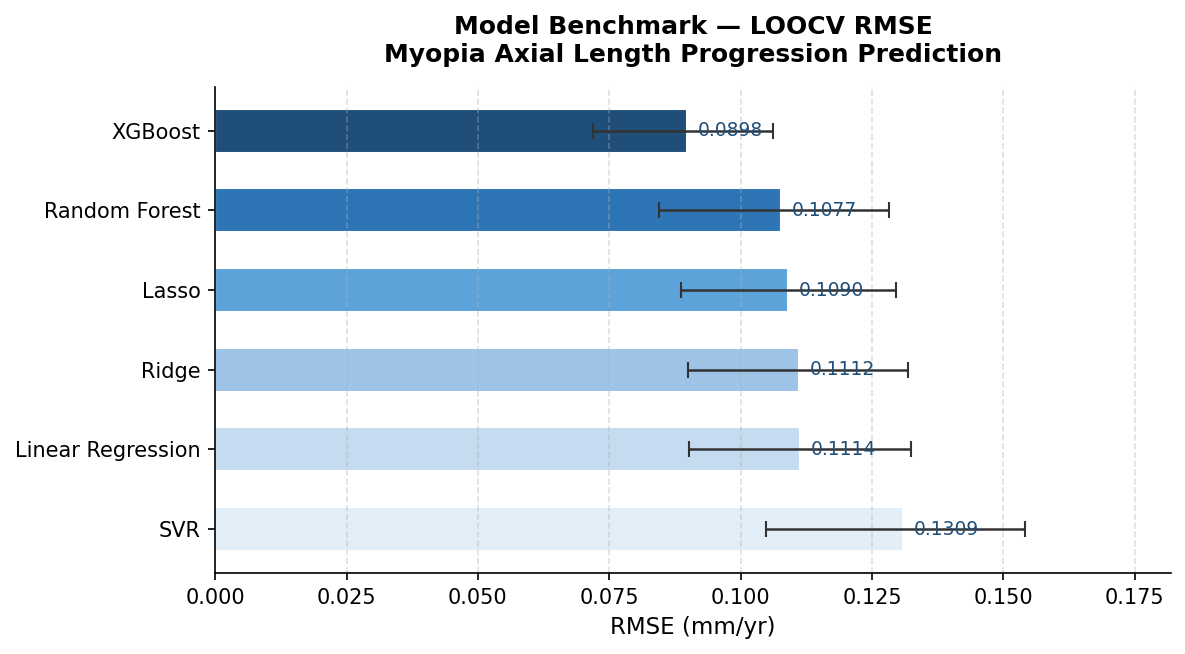
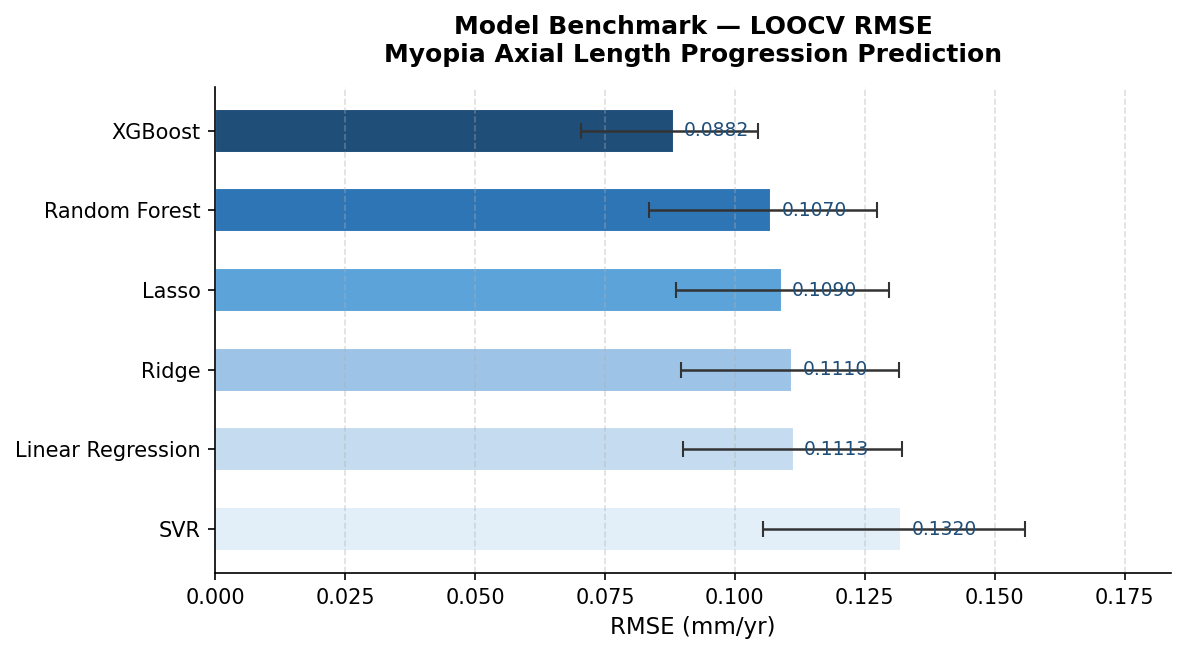
feat: AXL growth trajectory panel with visit-based age axis + normative bands + 1yr projection

diff --git a/app.py b/app.py
@@ -231,10 +231,58 @@ st.divider()
 atro_map = {"None (0%)": 0.0, "0.01%": 0.01, "0.02%": 0.02,
             "0.05%": 0.05, "0.125%": 0.125}
 
-# 年齡-眼軸常模
-AGE_NORM = {6:22.5,7:22.8,8:23.0,9:23.2,10:23.4,11:23.6,12:23.8,
-            13:24.0,14:24.1,15:24.2,16:24.3,17:24.4,18:24.5,19:24.5,20:24.5}
-norm_axl = AGE_NORM.get(age, 24.0)
+# ── 東亞兒童眼軸常模（He et al. Br J Ophthalmol 2023, n=14,127）────
+# 50th percentile（中位數），分性別，來源：上海+廣州大型研究
+EA_NORM_MALE = {
+    4:22.39,5:22.69,6:22.97,7:23.25,8:23.51,9:23.76,10:23.99,
+    11:24.22,12:24.43,13:24.62,14:24.81,15:24.98,16:25.13,
+    17:25.28,18:25.41,19:25.50,20:25.55,
+}
+EA_NORM_FEMALE = {
+    4:21.78,5:22.10,6:22.41,7:22.70,8:22.98,9:23.25,10:23.51,
+    11:23.75,12:23.97,13:24.19,14:24.39,15:24.57,16:24.75,
+    17:24.91,18:25.05,19:25.12,20:25.15,
+}
+# P10 / P50 / P90 對照表（用於百分位計算 panel）
+EA_PCTILE = {
+    7:  dict(p10_m=22.43,p50_m=23.25,p90_m=24.08, p10_f=21.89,p50_f=22.70,p90_f=23.51),
+    8:  dict(p10_m=22.67,p50_m=23.51,p90_m=24.35, p10_f=22.08,p50_f=22.98,p90_f=23.88),
+    9:  dict(p10_m=22.90,p50_m=23.76,p90_m=24.62, p10_f=22.28,p50_f=23.25,p90_f=24.22),
+    10: dict(p10_m=23.11,p50_m=23.99,p90_m=24.87, p10_f=22.47,p50_f=23.51,p90_f=24.55),
+    11: dict(p10_m=23.30,p50_m=24.22,p90_m=25.14, p10_f=22.65,p50_f=23.75,p90_f=24.85),
+    12: dict(p10_m=23.49,p50_m=24.43,p90_m=25.37, p10_f=22.82,p50_f=23.97,p90_f=25.12),
+    13: dict(p10_m=23.66,p50_m=24.62,p90_m=25.58, p10_f=22.98,p50_f=24.19,p90_f=25.40),
+    14: dict(p10_m=23.82,p50_m=24.81,p90_m=25.80, p10_f=23.13,p50_f=24.39,p90_f=25.65),
+    15: dict(p10_m=23.97,p50_m=24.98,p90_m=25.99, p10_f=23.27,p50_f=24.57,p90_f=25.87),
+    16: dict(p10_m=24.10,p50_m=25.13,p90_m=26.16, p10_f=23.40,p50_f=24.75,p90_f=26.10),
+    17: dict(p10_m=24.22,p50_m=25.28,p90_m=26.34, p10_f=23.52,p50_f=24.91,p90_f=26.30),
+    18: dict(p10_m=24.33,p50_m=25.41,p90_m=26.49, p10_f=23.63,p50_f=25.05,p90_f=26.47),
+}
+
+def get_ea_norm(age_val: int, sex_str: str) -> float:
+    if sex_str == "Male":
+        return EA_NORM_MALE.get(age_val, EA_NORM_MALE.get(18, 25.41))
+    return EA_NORM_FEMALE.get(age_val, EA_NORM_FEMALE.get(18, 25.05))
+
+def axl_percentile_approx(axl: float, age_val: int, sex_str: str) -> float:
+    """線性插值估計 AXL 在同齡同性別東亞兒童的百分位（0–100）。"""
+    pct = EA_PCTILE.get(age_val)
+    if pct is None:
+        return 50.0
+    if sex_str == "Male":
+        p10, p50, p90 = pct["p10_m"], pct["p50_m"], pct["p90_m"]
+    else:
+        p10, p50, p90 = pct["p10_f"], pct["p50_f"], pct["p90_f"]
+    if axl <= p10:
+        return float(np.interp(axl, [p10 - 2.0, p10], [2, 10]))
+    elif axl <= p50:
+        return float(np.interp(axl, [p10, p50], [10, 50]))
+    elif axl <= p90:
+        return float(np.interp(axl, [p50, p90], [50, 90]))
+    else:
+        return float(np.interp(axl, [p90, p90 + 2.0], [90, 98]))
+
+norm_axl = get_ea_norm(age, sex)
 axl_dev  = axl_base - norm_axl
 
 input_vals = {
@@ -333,6 +381,168 @@ if MODEL_OK and predict_btn:
         plt.tight_layout()
         st.pyplot(fig, use_container_width=True)
         plt.close()
+
+    # ── 東亞常模對比 Panel ────────────────────────────────────
+    st.divider()
+    st.markdown("### 📏 AXL vs. East Asian Norms")
+    st.caption(
+        "Compares this patient's axial length to same-age, same-sex East Asian children "
+        "(He et al., *Br J Ophthalmol* 2023 · n = 14,127 · Shanghai + Guangzhou)"
+    )
+
+    pctile = axl_percentile_approx(float(axl_base), age, sex)
+    pct_data = EA_PCTILE.get(age)
+
+    col_n1, col_n2 = st.columns([1, 1.6])
+
+    with col_n1:
+        # 百分位指示
+        if pctile >= 90:
+            pctile_label, pctile_color, pctile_msg = (
+                "⚠️ Very Long (≥ P90)",
+                "#C00000",
+                "AXL is in the top 10% for this age/sex group — significantly longer than peers."
+            )
+        elif pctile >= 75:
+            pctile_label, pctile_color, pctile_msg = (
+                "🔴 Long (P75–P90)",
+                "#ED7D31",
+                "AXL is above average — longer than ~75–90% of same-age peers."
+            )
+        elif pctile >= 25:
+            pctile_label, pctile_color, pctile_msg = (
+                "🟢 Average (P25–P75)",
+                "#375623",
+                "AXL is within the typical range for this age and sex."
+            )
+        else:
+            pctile_label, pctile_color, pctile_msg = (
+                "🔵 Short (< P25)",
+                "#2E75B6",
+                "AXL is shorter than ~75% of same-age peers — low axial elongation risk."
+            )
+
+        st.markdown(
+            f"<div style='background:{pctile_color}22; border-left:5px solid {pctile_color}; "
+            f"padding:14px 18px; border-radius:8px; margin-bottom:10px;'>"
+            f"<div style='font-size:0.82rem; color:#555; font-weight:600;'>Estimated Percentile</div>"
+            f"<div style='font-size:2.2rem; font-weight:800; color:{pctile_color};'>P{pctile:.0f}</div>"
+            f"<div style='font-size:0.9rem; font-weight:600; color:{pctile_color};'>{pctile_label}</div>"
+            f"</div>",
+            unsafe_allow_html=True
+        )
+        st.markdown(f"> {pctile_msg}")
+        st.markdown(
+            f"**Patient AXL:** {axl_base:.2f} mm  \n"
+            f"**East Asian P50 (age {age}, {sex}):** {norm_axl:.2f} mm  \n"
+            f"**Deviation:** {axl_dev:+.2f} mm"
+        )
+        st.caption("Source: He X et al. *Br J Ophthalmol* 2023;107:167–175")
+
+    with col_n2:
+        # 圖：常模帶（P10/P50/P90） + 病人實際量測軌跡
+        import matplotlib
+        matplotlib.use("Agg")
+        import matplotlib.pyplot as plt
+
+        # ── 常模曲線資料（橫跨 7–18 歲）
+        ages_plot = list(range(7, 19))
+        key_m = "p10_m" if sex == "Male" else "p10_f"
+        key_50 = "p50_m" if sex == "Male" else "p50_f"
+        key_90 = "p90_m" if sex == "Male" else "p90_f"
+        p10_vals = [EA_PCTILE[a][key_m]  for a in ages_plot if a in EA_PCTILE]
+        p50_vals = [EA_PCTILE[a][key_50] for a in ages_plot if a in EA_PCTILE]
+        p90_vals = [EA_PCTILE[a][key_90] for a in ages_plot if a in EA_PCTILE]
+
+        # ── 把 valid_visits（月份, AXL）轉成（實際年齡, AXL）
+        # 規則：Visit 1 = age（歲），每多 1 個月 = +1/12 歲
+        pt_ages = [age + mo / 12.0 for mo, _ in valid_visits]
+        pt_axls = [axl for _, axl in valid_visits]
+
+        # 若無 visit 就只畫基線單點（fallback）
+        if len(pt_ages) == 0:
+            pt_ages = [float(age)]
+            pt_axls = [float(axl_base)]
+
+        fig_n, ax_n = plt.subplots(figsize=(6, 3.8))
+
+        # 常模帶
+        ax_n.fill_between(ages_plot, p10_vals, p90_vals,
+                          alpha=0.13, color="#2E75B6")
+        ax_n.plot(ages_plot, p50_vals, color="#2E75B6", lw=2.2,
+                  linestyle="--", label="East Asian P50 (median)")
+        ax_n.plot(ages_plot, p10_vals, color="#2E75B6", lw=1,
+                  linestyle=":", alpha=0.55, label="P10 / P90")
+        ax_n.plot(ages_plot, p90_vals, color="#2E75B6", lw=1,
+                  linestyle=":", alpha=0.55)
+
+        # 病人軌跡
+        pt_color = pctile_color
+        if len(pt_ages) >= 2:
+            ax_n.plot(pt_ages, pt_axls, color=pt_color, lw=2.2,
+                      marker="o", markersize=7, zorder=5,
+                      label="This patient (measured)")
+        else:
+            ax_n.scatter(pt_ages, pt_axls, color=pt_color, s=130,
+                         zorder=5, label="This patient (baseline)")
+
+        # 標注每個量測點
+        for i, (pa, paxl) in enumerate(zip(pt_ages, pt_axls)):
+            visit_pctile = axl_percentile_approx(paxl, int(round(pa)), sex)
+            label_str = (
+                f"V{i+1}: {paxl:.2f}mm\n(P{visit_pctile:.0f})"
+            )
+            va = "bottom" if i % 2 == 0 else "top"
+            offset = 0.04 if va == "bottom" else -0.04
+            ax_n.annotate(
+                label_str,
+                xy=(pa, paxl),
+                xytext=(pa + 0.1, paxl + offset),
+                fontsize=7.5, color=pt_color, fontweight="bold",
+                va=va,
+            )
+
+        # 如果有 ≥2 次，畫預測延伸線（用 early_slope 延伸到 +1 年）
+        if slope_ok and len(pt_ages) >= 2:
+            last_age = pt_ages[-1]
+            last_axl = pt_axls[-1]
+            proj_age = last_age + 1.0
+            proj_axl = last_axl + early_slope * 12  # mm/yr
+            ax_n.annotate(
+                "",
+                xy=(proj_age, proj_axl),
+                xytext=(last_age, last_axl),
+                arrowprops=dict(
+                    arrowstyle="-|>", color=pt_color,
+                    lw=1.5, linestyle="dashed"
+                ),
+            )
+            ax_n.text(proj_age + 0.05, proj_axl,
+                      f"Projected\n+1yr: {proj_axl:.2f}mm",
+                      fontsize=7, color=pt_color, alpha=0.8, va="center")
+
+        ax_n.set_xlabel("Age (years)", fontsize=10)
+        ax_n.set_ylabel("Axial Length (mm)", fontsize=10)
+        ax_n.set_title(
+            f"AXL Growth Trajectory vs. East Asian Norms · {sex}",
+            fontsize=9.5, fontweight="bold"
+        )
+        ax_n.legend(fontsize=8, loc="upper left")
+        ax_n.spines[["top", "right"]].set_visible(False)
+        ax_n.grid(axis="y", linestyle="--", alpha=0.3)
+
+        # 自動調整 x 軸讓病人軌跡在中央
+        x_min = max(6.5, min(pt_ages) - 1.0)
+        x_max = min(19.5, max(pt_ages) + 2.0)
+        ax_n.set_xlim(x_min, x_max)
+        plt.tight_layout()
+        st.pyplot(fig_n, use_container_width=True)
+        plt.close()
+
+        st.caption(
+            "Dashed arrow = projected trajectory based on current slope (+1 yr).  "
+            "Blue band = East Asian P10–P90 (He et al. *Br J Ophthalmol* 2023)."
+        )
 
     # ── SHAP Waterfall ────────────────────────────────────────
     st.divider()

diff --git a/02_features.py b/02_features.py
@@ -32,12 +32,36 @@ OUT_FILE = Path(__file__).parent / "features.csv"
 
 
 # ── 年齡-眼軸常模 (文獻值，用於計算偏離量) ─────────────────────
-# 來源：Tideman et al. 2016 / IMI報告中位數 (mm)
-AGE_AXL_NORM = {
-    6: 22.5, 7: 22.8, 8: 23.0, 9: 23.2, 10: 23.4,
-    11: 23.6, 12: 23.8, 13: 24.0, 14: 24.1, 15: 24.2,
-    16: 24.3, 17: 24.4, 18: 24.5, 19: 24.5, 20: 24.5,
+# 來源：He X et al. Br J Ophthalmol 2023;107:167–175
+#       中國兒童 4–18 歲軸長百分位曲線（上海+廣州，n=14,127）
+#       使用 50th percentile（中位數）分性別，以便與東亞兒童做準確比較
+#       sex=1 (Male), sex=0 (Female)
+#
+# 設計說明：因台灣資料有 sex 欄位，這裡改用分性別常模，
+# 若 sex 未知則取男女平均作為 fallback。
+AGE_AXL_NORM_MALE = {
+    4: 22.39, 5: 22.69, 6: 22.97, 7: 23.25, 8: 23.51,
+    9: 23.76, 10: 23.99, 11: 24.22, 12: 24.43, 13: 24.62,
+    14: 24.81, 15: 24.98, 16: 25.13, 17: 25.28, 18: 25.41,
+    19: 25.50, 20: 25.55,  # 18歲後趨於穩定，以18歲值外插
 }
+AGE_AXL_NORM_FEMALE = {
+    4: 21.78, 5: 22.10, 6: 22.41, 7: 22.70, 8: 22.98,
+    9: 23.25, 10: 23.51, 11: 23.75, 12: 23.97, 13: 24.19,
+    14: 24.39, 15: 24.57, 16: 24.75, 17: 24.91, 18: 25.05,
+    19: 25.12, 20: 25.15,  # 18歲後趨於穩定，以18歲值外插
+}
+
+def get_norm_axl(age_int: int, sex: int) -> float:
+    """取東亞兒童眼軸常模（He et al. 2023）。sex=1男, sex=0女, 其他取平均。"""
+    if sex == 1:
+        return AGE_AXL_NORM_MALE.get(age_int, AGE_AXL_NORM_MALE.get(18, 25.41))
+    elif sex == 0:
+        return AGE_AXL_NORM_FEMALE.get(age_int, AGE_AXL_NORM_FEMALE.get(18, 25.05))
+    else:  # 未知性別 → 男女平均
+        m = AGE_AXL_NORM_MALE.get(age_int, 25.41)
+        f = AGE_AXL_NORM_FEMALE.get(age_int, 25.05)
+        return (m + f) / 2
 
 
 def ols_slope(months, axls):
@@ -85,11 +109,12 @@ def compute_features(grp: pd.DataFrame) -> dict:
     axl_std_6m = a_v[mask_6m].std() if mask_6m.sum() >= 2 else np.nan
 
     # ── 年齡偏離量 ────────────────────────────────────────────
-    # 以開始年齡查常模，計算 baseline AXL 偏離
+    # 以開始年齡+性別查東亞常模（He et al. 2023），計算 baseline AXL 偏離
     age = grp["開始年齡"].iloc[0]
     age_int = int(round(age)) if pd.notna(age) else None
-    norm_axl  = AGE_AXL_NORM.get(age_int, np.nan) if age_int else np.nan
-    axl_dev   = axl_baseline - norm_axl              # + 表示超過常模（近視較深）
+    sex_val  = int(grp.iloc[0]["sex"]) if pd.notna(grp.iloc[0].get("sex")) else -1
+    norm_axl = get_norm_axl(age_int, sex_val) if age_int else np.nan
+    axl_dev  = axl_baseline - norm_axl              # + 表示超過常模（近視較深）
 
     # ── 臨床基線特徵 ──────────────────────────────────────────
     row0 = grp.iloc[0]
@@ -103,8 +128,7 @@ def compute_features(grp: pd.DataFrame) -> dict:
         # 識別碼
         "eye_id"         : row0["eye_id"],
         "source"         : row0["source"],
-        "姓名"           : row0["姓名"],
-        "左右眼"         : row0["左右眼"],
+        "左右眼"         : row0.get("左右眼", np.nan),
         # 基線臨床
         "age_start"      : float(age) if pd.notna(age) else np.nan,
         "sex"            : sex,